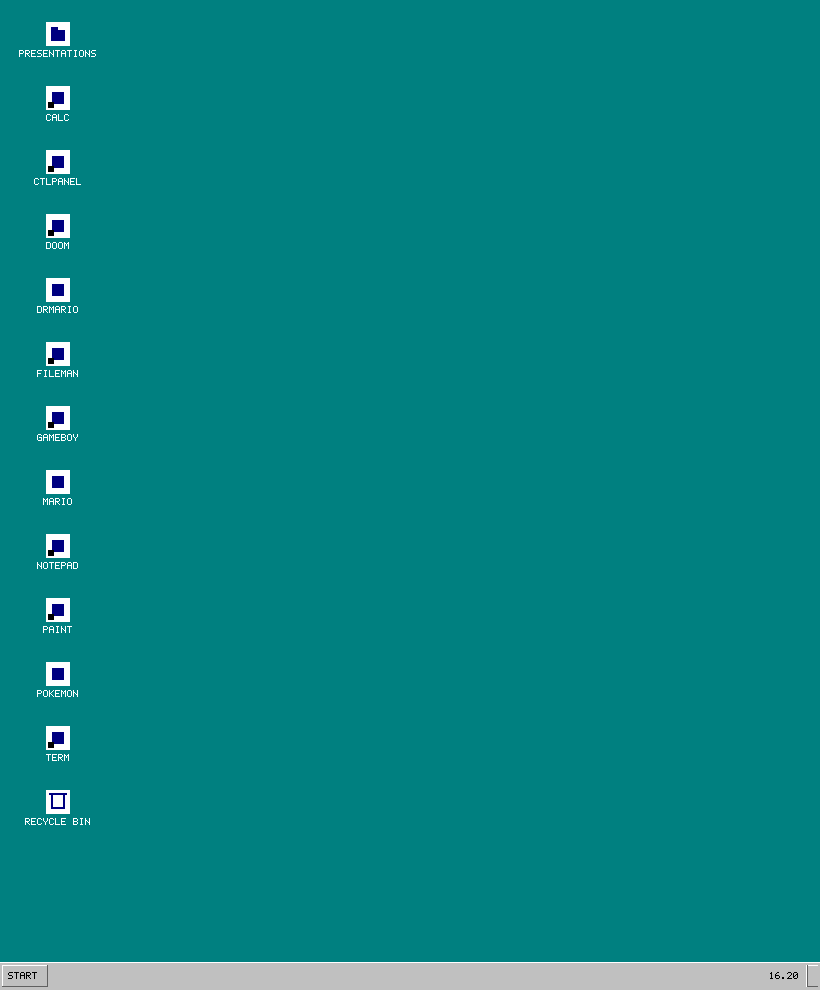
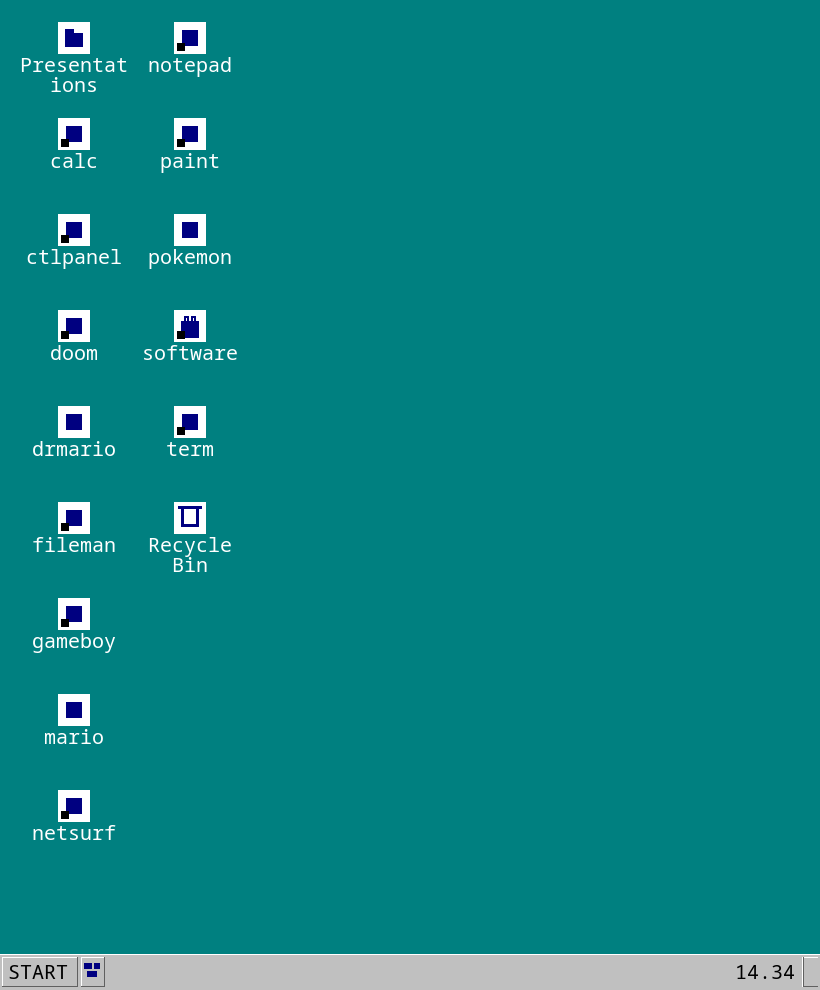
W-388 #388: fat band on the E/S resize edges only — N/W keep WM_BORDER
The all-four-sides band regressed os-shell's applet-close leg: in a
cascade the higher window's invisible 12px TOP band overlays the bottom
of the window-behind's title bar and swallowed its close box. Top/left
are focus-only, so slop there has no resize benefit — asymmetric bounds
in both hit-test copies, legs pinning the thin N/W boundaries.

diff --git a/kernel.js b/kernel.js
@@ -1107,15 +1107,19 @@ var WM_DEFAULT_GRABS = [
  * on the frame: right edge -> E, bottom edge -> S, near the bottom-right
  * corner -> SE (left/top edges just focus — moving-edge resizes are
  * deliberately not in this version).
- * Hit zones are FATTER than the drawn frame (#388): the band accepts
- * presses out to WM_BORDER_HIT (invisible slop OUTWARD past the 4px drawn
- * frame — outward is free, it steals nothing from the client), the SE
- * corner widens E/S into SE within WM_GRIP_HIT of the corner, and on a
- * RESIZABLE surface the SE grip also reaches WM_GRIP_IN INWARD into the
- * client — the one inward steal, sized to the classic scrollbar-corner
- * size box, so a maximized/snapped window (no outward left) stays
- * resizable. Only 'down' is intercepted in that inward square; moves,
- * ups and wheels still reach the app. WM_BORDER stays the DRAWN width —
+ * Hit zones are FATTER than the drawn frame (#388), but ONLY on the edges
+ * that resize: the band accepts presses out to WM_BORDER_HIT past the
+ * RIGHT and BOTTOM edges (invisible slop outward, steals nothing from the
+ * client), the SE corner widens E/S into SE within WM_GRIP_HIT of the
+ * corner, and on a RESIZABLE surface the SE grip also reaches WM_GRIP_IN
+ * INWARD into the client — the one inward steal, sized to the classic
+ * scrollbar-corner size box, so a maximized/snapped window (no outward
+ * left) stays resizable. Only 'down' is intercepted in that inward
+ * square; moves, ups and wheels still reach the app. The TOP and LEFT
+ * edges keep the thin WM_BORDER band: they are focus-only, and invisible
+ * slop there steals the window-behind's chrome in a cascade (a 12px top
+ * band swallows the close box of the title bar it overlaps — the
+ * os-shell applet-close regression). WM_BORDER stays the DRAWN width —
  * raising it would move every screenshot golden. */
 var WM_TITLE_H = 30;                         // font-20 retune (v133-qa): the
                                              // caption must read >= the 30px
@@ -1139,8 +1143,9 @@ var WM_BORDER = 4;                           // DRAWN frame width around
 var WM_GRIP = 16;                            // pre-#388 SE-corner hit metric —
                                              // superseded by WM_GRIP_HIT /
                                              // WM_GRIP_IN below; kept exported
-var WM_BORDER_HIT = 12;                      // hit-only band width (#388):
-                                             // outward slop, never drawn
+var WM_BORDER_HIT = 12;                      // hit-only band width past the E/S
+                                             // edges (#388): outward slop,
+                                             // never drawn; N/W stay WM_BORDER
 var WM_GRIP_HIT = 32;                        // hit-only SE widening along the
                                              // band's E/S edges (#388)
 var WM_GRIP_IN = 16;                         // hit-only SE inward reach into a
@@ -5593,8 +5598,8 @@ Kernel.prototype._wmCursorAt = function (x, y) {
       x >= s.x && x < s.x + dw && y >= s.y - WM_TITLE_H && y < s.y;
     var inClient = x >= s.x && x < s.x + dw && y >= s.y && y < s.y + dh;
     var inFrame = !s.borderless && !inTitle && !inClient &&
-      x >= s.x - WM_BORDER_HIT && x < s.x + dw + WM_BORDER_HIT &&
-      y >= s.y - WM_TITLE_H - WM_BORDER_HIT && y < s.y + dh + WM_BORDER_HIT;
+      x >= s.x - WM_BORDER && x < s.x + dw + WM_BORDER_HIT &&
+      y >= s.y - WM_TITLE_H - WM_BORDER && y < s.y + dh + WM_BORDER_HIT;
     // The SE grip's inward reach (#388) advertises itself, mirroring the
     // hit test: a resizable client's bottom-right WM_GRIP_IN square reads
     // the NWSE cursor even though moves still flow to the app.
@@ -5793,10 +5798,11 @@ Kernel.prototype.wmPointer = function (kind, x, y, opts) {
       x >= s.x && x < s.x + dw && y >= s.y - WM_TITLE_H && y < s.y;
     var inClient = x >= s.x && x < s.x + dw && y >= s.y && y < s.y + dh;
     // The resize frame (todos/0019): a band around title+client, accepting
-    // presses out to WM_BORDER_HIT — fatter than the 4px drawn frame (#388).
+    // presses out to WM_BORDER_HIT past the E/S edges — fatter than the 4px
+    // drawn frame (#388); the focus-only N/W edges keep the thin band.
     var inFrame = !s.borderless && !inTitle && !inClient &&
-      x >= s.x - WM_BORDER_HIT && x < s.x + dw + WM_BORDER_HIT &&
-      y >= s.y - WM_TITLE_H - WM_BORDER_HIT && y < s.y + dh + WM_BORDER_HIT;
+      x >= s.x - WM_BORDER && x < s.x + dw + WM_BORDER_HIT &&
+      y >= s.y - WM_TITLE_H - WM_BORDER && y < s.y + dh + WM_BORDER_HIT;
     // The SE grip's inward reach (#388): on a RESIZABLE surface a press in
     // the client's bottom-right WM_GRIP_IN square starts an SE resize — the
     // only way a maximized/snapped window (band clipped/covered outward)

diff --git a/tests/kernel/test_wm.js b/tests/kernel/test_wm.js
@@ -475,6 +475,16 @@ const px = (shot, x, y) => Array.from(shot.rgba.subarray((y * shot.w + x) * 4, (
   ract = kernel.wmPointer('down', 390 + K.WM_BORDER_HIT, 230, {});
   check('#388: one px past the fat band is the desktop', ract === 'desktop', ract);
   kernel.wmPointer('up', 390 + K.WM_BORDER_HIT, 230, {});
+  // The focus-only N/W edges keep the thin WM_BORDER band — a fat band
+  // there steals the window-behind's title-bar chrome in a cascade.
+  ract = kernel.wmPointer('down', 200 - K.WM_BORDER - 1, 230, {});
+  check('#388: W band stays thin (one px past WM_BORDER is desktop)',
+    ract === 'desktop', ract);
+  kernel.wmPointer('up', 200 - K.WM_BORDER - 1, 230, {});
+  ract = kernel.wmPointer('down', 250, 200 - K.WM_TITLE_H - K.WM_BORDER - 1, {});
+  check('#388: N band stays thin (one px past WM_BORDER is desktop)',
+    ract === 'desktop', ract);
+  kernel.wmPointer('up', 250, 200 - K.WM_TITLE_H - K.WM_BORDER - 1, {});
   ract = kernel.wmPointer('down', 391, 320 - K.WM_GRIP_HIT + 1, {});
   let rd388 = kernel.wmScene().resizeDrag;
   check('#388: E-band press within WM_GRIP_HIT of the corner widens to SE',
